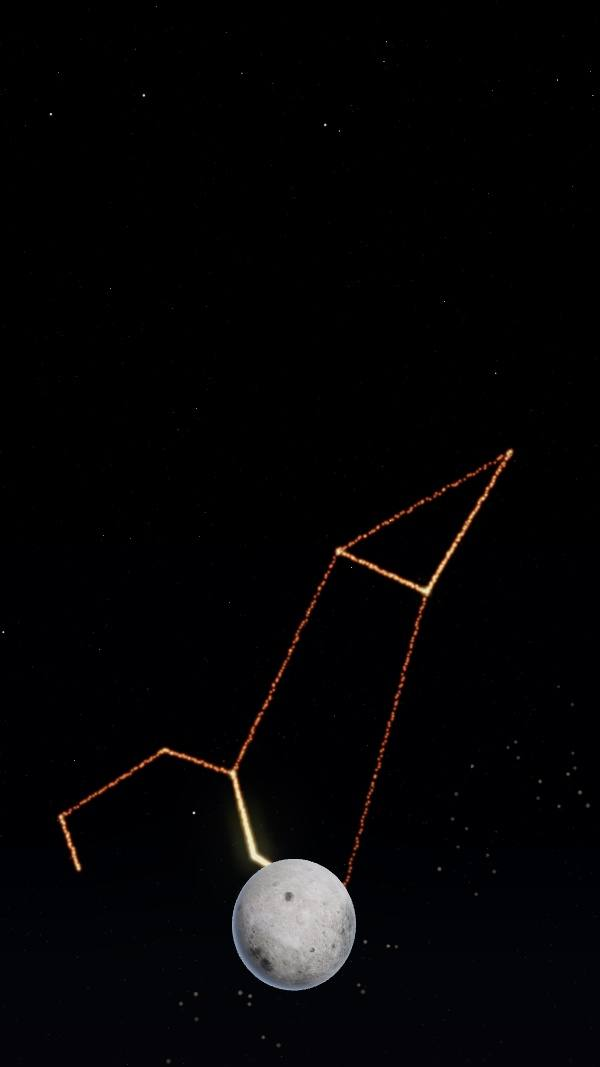
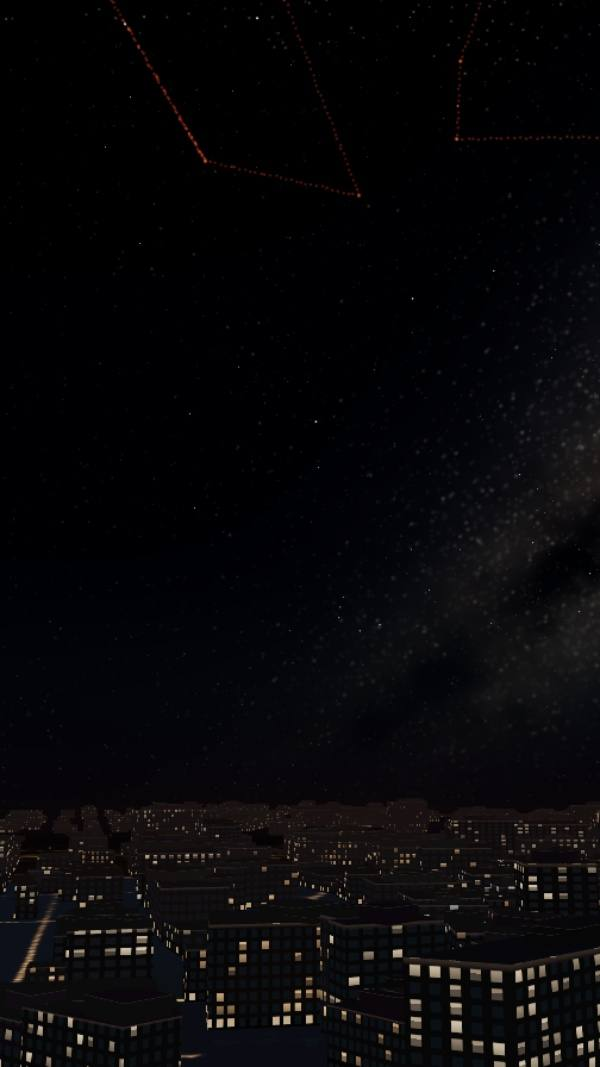
Build 228: the opening faces the real Milky Way; photographic band, night-city facades, a Sun that reads as a star
- opening gaze: the brightest stretch of the REAL galactic plane standing 15-35 deg over the skyline,
  framed like a night photograph (limb at ~82% of the frame, city along the bottom), turned away from
  the user-sized natal Sun (in Sagittarius, beside the galactic centre) until its disc leaves the frame
- Milky Way bake: resolved stars (one hash per texel, density following the band, power-law magnitudes,
  spectral tints) and the rich southern Carina-Crux-Centaurus clouds
- city: every building draws its own storey height, bay width, wakefulness and light temperature;
  rare whole office floors; dark glass holding a little sky; blinds and ceiling falloff in lit panes;
  shopfronts; street-level occlusion; a roofline edge catching the light dome; roof plant rooms and
  stair houses sized from the real OSM footprints break the clean-box skyline
- Sun: no in-shader ACES (the pipeline tone-maps once) — it was washed to a cream plate; photosphere
  colour from deep-orange limb to white-hot centre, fine granulation on the sphere, bright enough to
  bloom; corona shells and the rim now fade to zero AT their silhouettes (no more hard rings)
- posters re-captured from the new opening

diff --git a/space.js b/space.js
@@ -230,8 +230,9 @@
           "  float cyg = exp(-pow((l - 1.36) / 0.40, 2.0));",                                   // the Cygnus star cloud, l≈78°
           "  float sct = exp(-pow((l - 0.47) / 0.12, 2.0));",                                   // the Scutum star cloud, l≈27°
           "  float cas = exp(-pow((l - 2.10) / 0.45, 2.0));",                                   // Cassiopeia–Cepheus
-          "  float lon = 0.14 + 0.46 * exp(-pow(l / 1.45, 2.0)) + 0.32 * cyg + 0.30 * sct + 0.10 * cas;",
-          "  float wid = 0.060 + 0.028 * cyg + 0.022 * nearC;",
+          "  float car = exp(-pow((l + 1.15) / 0.40, 2.0));",                                   // Carina–Crux–Centaurus, l≈290–310°: the rich southern band
+          "  float lon = 0.14 + 0.46 * exp(-pow(l / 1.45, 2.0)) + 0.32 * cyg + 0.30 * sct + 0.10 * cas + 0.34 * car;",
+          "  float wid = 0.060 + 0.028 * cyg + 0.022 * nearC + 0.018 * car;",
           "  float warp = 0.012 * sin(l * 2.0) + 0.006 * sin(l * 5.0 + 1.3);",
           "  float n1 = fbm(gd * 3.4), n2 = fbm(gd * 9.0 + 5.2), n3 = fbm(gd * 30.0 + 1.7);",
           "  float core = exp(-pow((b - warp) / wid, 2.0));",
@@ -256,6 +257,16 @@
           "  col = mix(col, gold, clamp(bulge * 1.2 + 0.35 * nearC * core, 0.0, 1.0));",
           "  col *= I;",
           "  col += vec3(0.95, 0.28, 0.36) * pow(clamp(fbm(gd * 15.0 + 23.0), 0.0, 1.0), 8.0) * core * 3.0 * I;",
+          // build 228 — RESOLVED STARS: a long exposure shows the band as countless individual stars, not a smooth
+          // fog. One hash per texel; density follows the band's own brightness, magnitudes are power-law.
+          "  vec2 tx = floor(vUv * vec2(" + (MOBILE ? "2048.0, 512.0" : "4096.0, 1024.0") + "));",
+          "  float h1 = fract(sin(dot(tx, vec2(12.9898, 78.233))) * 43758.5453);",
+          "  float h2 = fract(sin(dot(tx, vec2(39.3468, 11.1350))) * 24634.6345);",
+          "  float h3s = fract(sin(dot(tx, vec2(73.1560, 52.2350))) * 15731.7431);",
+          "  float dens = clamp(0.012 + 0.30 * I, 0.0, 0.42) * (1.0 - smoothstep(" + (MILKY_B * 0.55).toFixed(3) + ", " + MILKY_B.toFixed(3) + ", abs(b)));",   // no seam where the map ends
+          "  float st = step(1.0 - dens, h1) * (0.35 + 2.2 * pow(h2, 7.0));",
+          "  vec3 sc = h3s < 0.18 ? vec3(0.78, 0.86, 1.0) : (h3s > 0.80 ? vec3(1.0, 0.82, 0.62) : vec3(1.0, 0.96, 0.90));",
+          "  col += sc * st * (0.55 + 0.45 * clamp(I, 0.0, 1.0));",
           "  gl_FragColor = vec4(sqrt(clamp(col / 2.2, 0.0, 1.0)), 1.0);",
           "}"
         ].join("\n")
@@ -1178,13 +1189,27 @@
       var quat = new THREE.Quaternion().setFromRotationMatrix(new THREE.Matrix4().makeBasis(east, north, up));
       loadCityData().then(function (j) {
         if (!j || !j.b || !controls.isGround()) return;
-        var S = CITY_SCALE, B = j.b, P = [], I = [];   // position (local), aInfo (topFrac, wallFlag, seed)
+        var S = CITY_SCALE, B = j.b, P = [], I = [];   // position (local), aInfo (topFrac, kind: 1 facade · 0.5 plant · 0 roof, seed)
+        // a box on the roof (stair/lift house, plant room): walls with no windows + a flat lid
+        function roofBox(cx0, cy0, hx, hy, z0, hh, seed0) {
+          var X = [cx0 - hx, cx0 + hx, cx0 + hx, cx0 - hx], Y = [cy0 - hy, cy0 - hy, cy0 + hy, cy0 + hy], z1 = z0 + hh;
+          for (var q = 0; q < 4; q++) {
+            var q1 = (q + 1) % 4;
+            P.push(X[q], Y[q], z0, X[q1], Y[q1], z0, X[q1], Y[q1], z1,  X[q], Y[q], z0, X[q1], Y[q1], z1, X[q], Y[q], z1);
+            I.push(0, 0.5, seed0, 0, 0.5, seed0, 1, 0.5, seed0,  0, 0.5, seed0, 1, 0.5, seed0, 1, 0.5, seed0);
+          }
+          P.push(X[0], Y[0], z1, X[1], Y[1], z1, X[2], Y[2], z1,  X[0], Y[0], z1, X[2], Y[2], z1, X[3], Y[3], z1);
+          I.push(1, 0, seed0, 1, 0, seed0, 1, 0, seed0,  1, 0, seed0, 1, 0, seed0, 1, 0, seed0);
+        }
         for (var bi = 0; bi < B.length; bi++) {
-          var r = B[bi].r, H = B[bi].h * S, m = r.length >> 1;
+          var r = B[bi].r, Hm = B[bi].h, H = Hm * S, m = r.length >> 1;
           if (m < 3) continue;
           var seed = (bi * 0.6180339887) % 1;
-          var cx = 0, cy = 0;
-          for (var k = 0; k < m; k++) { cx += r[k * 2]; cy += r[k * 2 + 1]; }
+          var cx = 0, cy = 0, x0 = 1e9, x1 = -1e9, y0 = 1e9, y1 = -1e9;
+          for (var k = 0; k < m; k++) {
+            var rx = r[k * 2], ry = r[k * 2 + 1]; cx += rx; cy += ry;
+            if (rx < x0) x0 = rx; if (rx > x1) x1 = rx; if (ry < y0) y0 = ry; if (ry > y1) y1 = ry;
+          }
           cx = cx / m * S; cy = cy / m * S;
           for (var e0 = 0; e0 < m; e0++) {
             var e1 = (e0 + 1) % m;
@@ -1196,6 +1221,15 @@
             P.push(cx, cy, H, ax, ay, H, bx, by, H);
             I.push(1, 0, seed, 1, 0, seed, 1, 0, seed);
           }
+          // build 228 — the skyline gets its roof clutter: mid-rises and towers carry a plant room / stair house
+          // (two on big floor plates), sized from the real footprint, so the silhouette stops reading as clean boxes
+          var bw = x1 - x0, bd = y1 - y0;
+          if (Hm > 13 && bw > 9 && bd > 9) {
+            var rs = (bi * 0.7548776662) % 1, rt = (bi * 0.5698402910) % 1;
+            var hx = Math.max(2.2, bw * (0.12 + 0.10 * rs)) * S, hy = Math.max(2.2, bd * (0.12 + 0.10 * rt)) * S;
+            roofBox(cx + (rs - 0.5) * bw * 0.25 * S, cy + (rt - 0.5) * bd * 0.25 * S, hx, hy, H, (2.6 + 2.8 * rs) * S, seed);
+            if (bw * bd > 900) roofBox(cx - (rs - 0.5) * bw * 0.32 * S, cy + (0.5 - rt) * bd * 0.30 * S, hx * 0.6, hy * 0.7, H, (1.6 + 1.4 * rt) * S, seed);
+          }
         }
         if (!P.length) return;
         var g = new THREE.BufferGeometry();
@@ -1204,30 +1238,55 @@
         _cityMat = new THREE.ShaderMaterial({
           uniforms: { uFade: { value: 0 }, uScale: { value: S }, uHorizon: { value: new THREE.Color(0.030, 0.021, 0.019) } },   // build 227: the real night limb (was bright amber)
           side: THREE.DoubleSide, depthWrite: true, depthTest: true, fog: false,
+          extensions: { derivatives: true },
           vertexShader:
             "attribute vec3 aInfo; varying vec3 vLocal; varying vec3 vInfo; varying float vDist;\n" +
             "void main(){ vLocal=position; vInfo=aInfo; vec4 wp=modelMatrix*vec4(position,1.0);\n" +
             "  vDist=distance(wp.xyz, cameraPosition);\n" +
             "  gl_Position=projectionMatrix*modelViewMatrix*vec4(position,1.0); }",
+          /* build 228 — a night facade with the grain of a photograph, not a grid of identical lit squares:
+             every building draws its own storey height, bay width, how awake it is and its light temperature
+             (2700 K homes, 3500 K, 5000 K offices); whole office floors left on; unlit panes are dark glass
+             holding a little sky; shopfronts at street level; the street-level dark where walls meet the ground;
+             a thin roofline edge catching the city's light dome. */
           fragmentShader:
             "precision highp float; varying vec3 vLocal; varying vec3 vInfo; varying float vDist;\n" +
             "uniform float uFade; uniform float uScale; uniform vec3 uHorizon;\n" +
             "float h3(vec3 p){ return fract(sin(dot(p,vec3(12.9898,78.233,37.719)))*43758.5453); }\n" +
             "void main(){\n" +
-            "  float top=vInfo.x, wall=vInfo.y, seed=vInfo.z;\n" +
-            "  vec3 m=vLocal/uScale;\n" +                                   // local metres (e, n, heightM)
-            "  vec3 col=mix(vec3(0.0055,0.005,0.0055), vec3(0.022,0.020,0.024), top);\n" +   // build 227: true night silhouettes — the windows carry the light (was mid-grey up to 0.11)
-            "  if(wall>0.5){\n" +
-            "    float u=(m.x*0.9+m.y*1.1);\n" +
-            "    float ci=floor(u/3.4), ri=floor(m.z/3.6);\n" +
-            "    float hh=h3(vec3(ci, ri, seed*97.0)); float lit=step(0.80, hh);\n" +   // ~20% of rooms lit at night
-            "    float px=abs(fract(u/3.4)-0.5), py=abs(fract(m.z/3.6)-0.42);\n" +
-            "    float pane=smoothstep(0.36,0.18,px)*smoothstep(0.36,0.14,py);\n" +
-            "    vec3 wc=mix(vec3(1.0,0.62,0.30), vec3(0.78,0.84,1.0), step(0.965, hh));\n" +   // a few cool LED rooms among the warm
-            "    col+=lit*pane*wc*(0.55+0.35*fract(hh*13.7));\n" +
+            "  float top=vInfo.x, kind=vInfo.y, seed=vInfo.z;\n" +
+            "  vec3 m=vLocal/uScale;\n" +                                   // local metres (east, north, height)
+            "  vec3 N=normalize(cross(dFdx(vLocal), dFdy(vLocal)));\n" +
+            "  float s1=h3(vec3(seed,1.7,3.1)), s2=h3(vec3(seed,8.3,0.7)), s3=h3(vec3(seed,4.4,9.2));\n" +
+            "  vec3 base=mix(vec3(0.0060,0.0058,0.0062), vec3(0.0150,0.0142,0.0150), s1);\n" +
+            "  float ao=0.42+0.58*smoothstep(0.0,7.0,m.z);\n" +
+            "  vec3 col=base;\n" +
+            "  if(kind>0.75){\n" +
+            "    float floorH=3.0+1.3*s1, bayW=2.3+2.4*s2;\n" +
+            "    float u=abs(N.x)>abs(N.y) ? m.y : m.x;\n" +
+            "    float fi=floor(m.z/floorH), fy=fract(m.z/floorH), bi=floor(u/bayW), bx=fract(u/bayW);\n" +
+            "    float wr=0.16+0.12*s3;\n" +
+            "    float pane=smoothstep(wr-0.05,wr,bx)*smoothstep(1.0-wr+0.05,1.0-wr,bx)*smoothstep(0.18,0.26,fy)*smoothstep(0.90,0.80,fy);\n" +
+            "    float room=h3(vec3(bi,fi,seed*97.0));\n" +
+            "    float awake=mix(0.05,0.40,pow(s3,1.3));\n" +
+            "    float office=step(0.93,h3(vec3(fi,seed*31.0,2.0)))*step(0.62,s2);\n" +
+            "    float lit=max(step(1.0-awake,room), office*step(0.2,room))*step(0.5,fi);\n" +
+            "    vec3 tint=s2<0.60 ? vec3(1.0,0.62,0.30) : (s2<0.90 ? vec3(1.0,0.78,0.52) : vec3(0.84,0.89,1.0));\n" +
+            "    float hv=h3(vec3(bi,fi,seed*7.0)); float var=0.32+0.68*hv*hv;\n" +   // most rooms dim-lit, a few bright
+            "    float blind=step(0.55,h3(vec3(bi,fi,seed*3.0)));\n" +
+            "    float inner=mix(0.55+0.45*smoothstep(0.22,0.86,fy), 0.30+0.70*step(0.62,fy), blind);\n" +   // ceiling light falls down the pane; some rooms behind half-drawn blinds
+            "    col=mix(col*ao, vec3(0.016,0.019,0.027), pane*0.85);\n" +
+            "    col+=pane*lit*tint*var*inner*0.72;\n" +
+            "    float shop=(1.0-step(0.5,fi))*step(0.55,h3(vec3(bi,seed,5.0)));\n" +
+            "    col+=shop*pane*vec3(1.0,0.70,0.40)*0.50;\n" +
+            "  } else if(kind>0.25){\n" +
+            "    col=base*1.35*ao;\n" +
+            "  } else {\n" +
+            "    col=vec3(0.0095,0.0100,0.0125)+vec3(0.005,0.0035,0.0025)*s1;\n" +
             "  }\n" +
+            "  col+=smoothstep(0.955,1.0,top)*step(0.25,kind)*vec3(0.048,0.034,0.026);\n" +   // the roofline edge
             "  float haze=smoothstep(0.02,0.15,vDist);\n" +
-            "  col=mix(col, uHorizon, haze*0.80);\n" +                     // distant blocks dissolve into the night limb
+            "  col=mix(col, uHorizon, haze*0.80);\n" +
             "  gl_FragColor=vec4(col*uFade, 1.0); }"
         });
         if ("toneMapped" in _cityMat) _cityMat.toneMapped = false;
@@ -1740,7 +1799,7 @@
       setTimeout(once, 4500);
     }
 
-    import("./nye-armature.js?v=45").then(function (mod) {
+    import("./nye-armature.js?v=46").then(function (mod) {
       try {
         nyeArmature = mod.mountNyeArmature(THREE, scene, {
           instant: new Date(2002, 0, 2, 15, 45, 0, 0),
@@ -2114,6 +2173,51 @@
             pitch: Math.max(0.46, Math.min(1.28, Math.asin(Math.max(-1, Math.min(1, best.dot(nrm)))) + 0.10))  // aim at the visible Moon/constellation itself, not past it into an empty zenith
           };
         }
+        /* build 228 — the waking gaze faces the MILKY WAY at its true place (owner: "初始视角对着银河，保持真实位置").
+           Scan the real galactic plane for the brightest stretch standing 15–35° over the skyline (the bulge, the
+           Scutum and Cygnus clouds weigh most) and frame it like a night photograph: the city along the bottom
+           ~18% of the frame, the band rising out of it. Falls back to the Moon/constellation aim above. */
+        try {
+          if (natalSky && natalSky.skyDir) {
+            var gX2 = natalSky.skyDir(17.7611, -29.0078), gZ2 = natalSky.skyDir(12.8573, 27.1283);
+            gZ2.addScaledVector(gX2, -gZ2.dot(gX2)).normalize();
+            var gY2 = new THREE.Vector3().crossVectors(gZ2, gX2).normalize();
+            var mwAim = null, mwS = -9, md = new THREE.Vector3(), sunDirB = null;
+            try { var sunO = nyeArmature.group.getObjectByName("NyeSun"); if (sunO) sunDirB = sunO.getWorldPosition(new THREE.Vector3()).sub(sp.position).normalize(); } catch (eS) {}
+            for (var li = -72; li < 72; li++) {
+              var Lg = li * Math.PI / 72;
+              md.copy(gX2).multiplyScalar(Math.cos(Lg)).addScaledVector(gY2, Math.sin(Lg));
+              var altM = Math.asin(Math.max(-1, Math.min(1, md.dot(nrm))));
+              if (altM < 0.17) continue;                 // lower than that the city's light dome swallows it
+              var brM = 0.2 + Math.exp(-Math.pow(Lg / 0.6, 2)) + 0.45 * Math.exp(-Math.pow((Lg - 1.36) / 0.4, 2)) + 0.35 * Math.exp(-Math.pow((Lg - 0.47) / 0.15, 2)) + 0.45 * Math.exp(-Math.pow((Lg + 1.15) / 0.4, 2));
+              var scM = brM * (0.35 + 0.65 * Math.exp(-Math.pow((altM - 0.42) / 0.3, 2)));
+              if (scM > mwS) { mwS = scM; mwAim = md.clone(); }
+            }
+            if (mwAim) {
+              // the band's brightest stretch sits beside the (symbolic, user-sized ~15°) natal Sun in Sagittarius:
+              // keep the core in frame but turn the gaze AWAY from the Sun until its disc leaves the frame
+              var focusM = mwAim.clone();
+              if (sunDirB) {
+                var aS = Math.acos(Math.max(-1, Math.min(1, mwAim.dot(sunDirB))));
+                if (aS < 1.06) {
+                  var away = mwAim.clone().multiplyScalar(mwAim.dot(sunDirB)).sub(sunDirB);
+                  if (away.lengthSq() > 1e-8) {
+                    away.normalize();
+                    var dl = Math.min(0.55, 1.06 - aS);
+                    mwAim = mwAim.clone().multiplyScalar(Math.cos(dl)).addScaledVector(away, Math.sin(dl)).normalize();
+                  }
+                }
+              }
+              var vfov = camera.fov * Math.PI / 180;
+              var horizonDip = -0.0925;                   // the visible limb at the low eye (see the composite's uHorizon)
+              var below = Math.atan(0.64 * Math.tan(vfov / 2));   // put the limb ~82% of the way down the frame
+              var altT = Math.asin(Math.max(-1, Math.min(1, focusM.dot(nrm))));   // the frame must still hold the bright core
+              var pitchC = horizonDip + below;            // the limb at ~82% of the frame height: the city along the bottom
+              if (altT - pitchC > 0.78 * vfov / 2) pitchC = altT - 0.78 * vfov / 2;   // …unless the band would leave the top
+              aim = { yaw: Math.atan2(mwAim.dot(east), mwAim.dot(north)), pitch: pitchC };
+            }
+          }
+        } catch (eM) { window.__aimErr = String(eM); }
         controls.setGroundMode({
           position: sp.position, normal: sp.normal,
           yaw: (opts && opts.yaw != null) ? opts.yaw : (aim ? aim.yaw : 0.35),

diff --git a/nye-armature.js b/nye-armature.js
@@ -508,8 +508,10 @@ export function mountNyeArmature(THREE, scene, opts) {
       "varying vec2 vUv;",
       "varying vec3 vWn;",
       "varying vec3 vWp;",
+      "varying vec3 vObjN;",
       "void main(){",
       "  vUv=uv;",
+      "  vObjN=normalize(position);",
       "  vec4 wp=modelMatrix*vec4(position,1.0);",
       "  vWp=wp.xyz;",
       "  vWn=normalize(mat3(modelMatrix)*normal);",
@@ -519,7 +521,7 @@ export function mountNyeArmature(THREE, scene, opts) {
 
 
     const sunCoreFrag = [
-      "varying vec2 vUv; varying vec3 vWn; varying vec3 vWp;",
+      "varying vec2 vUv; varying vec3 vWn; varying vec3 vWp; varying vec3 vObjN;",
       "uniform sampler2D uMap;",
       "uniform float uExposure;",
       "uniform vec3 uWarmTint;",
@@ -528,13 +530,23 @@ export function mountNyeArmature(THREE, scene, opts) {
       "  vec3 N=normalize(vWn);",
       "  vec3 V=normalize(cameraPosition-vWp);",
       "  float mu=max(dot(N,V),0.0);",
-      "  vec3 col=texture2D(uMap,vUv).rgb*1.18;",
-      "  float ld=0.34+0.66*pow(mu,0.62);",                   // photospheric limb darkening
-      "  col*=ld;",
-      "  col=mix(col,vec3(0.98,0.34,0.08),pow(1.0-mu,2.9)*0.55);",  // limb reddening
-      "  col+=vec3(0.30,0.26,0.22)*pow(mu,2.6);",             // hot core lift
+      "  vec3 tex=texture2D(uMap,vUv).rgb; float hp=dot(tex,vec3(0.333));",   // the baked heat pattern: lanes and faculae
+      // build 228: fine granulation cells on the sphere itself (the 1024px bake is soft up close)
+      "  vec3 q=normalize(vObjN)*64.0;",
+      "  vec3 qi=floor(q), qf=fract(q); qf=qf*qf*(3.0-2.0*qf);",
+      "  float n000=fract(sin(dot(qi,vec3(127.1,311.7,74.7)))*43758.5453), n100=fract(sin(dot(qi+vec3(1,0,0),vec3(127.1,311.7,74.7)))*43758.5453);",
+      "  float n010=fract(sin(dot(qi+vec3(0,1,0),vec3(127.1,311.7,74.7)))*43758.5453), n110=fract(sin(dot(qi+vec3(1,1,0),vec3(127.1,311.7,74.7)))*43758.5453);",
+      "  float n001=fract(sin(dot(qi+vec3(0,0,1),vec3(127.1,311.7,74.7)))*43758.5453), n101=fract(sin(dot(qi+vec3(1,0,1),vec3(127.1,311.7,74.7)))*43758.5453);",
+      "  float n011=fract(sin(dot(qi+vec3(0,1,1),vec3(127.1,311.7,74.7)))*43758.5453), n111=fract(sin(dot(qi+vec3(1,1,1),vec3(127.1,311.7,74.7)))*43758.5453);",
+      "  float gn=mix(mix(mix(n000,n100,qf.x),mix(n010,n110,qf.x),qf.y),mix(mix(n001,n101,qf.x),mix(n011,n111,qf.x),qf.y),qf.z);",
+      // a photosphere's colour runs deep orange at the limb → gold → near-white at the centre; bright enough
+      // that the bloom pass gives it its glow (it used to sit below the threshold and read as a matte plate)
+      "  vec3 col=mix(vec3(1.0,0.40,0.09), vec3(1.0,0.70,0.30), smoothstep(0.0,0.45,mu));",
+      "  col=mix(col, vec3(1.0,0.93,0.80), smoothstep(0.70,1.0,mu));",
+      "  float ld=0.34+0.66*pow(mu,0.55);",                   // photospheric limb darkening
+      "  col*=ld*(0.80+0.36*gn)*(0.82+0.34*hp);",
       "  col=mix(col,col*uWarmTint,0.18);",
-      "  col=acesApprox(col*uExposure);",
+      "  col*=uExposure*0.98;",                                 // tone-mapped ONCE by the pipeline
       "  gl_FragColor=vec4(col,1.0);",
       "}"
     ].join("\n");
@@ -562,7 +574,7 @@ export function mountNyeArmature(THREE, scene, opts) {
       "  vec3 N=normalize(vWn);",
       "  vec3 V=normalize(cameraPosition-vWp);",
       "  float mu=max(dot(N,V),0.0);",
-      "  float f=pow(1.0-mu,3.4);",
+      "  float f=pow(1.0-mu,3.4)*smoothstep(0.0,0.16,mu);",   // build 228: fades out AT the limb (was a crisp bright ring)
       "  float g=texture2D(uWisp,vUv*vec2(3.0,2.0)).r;",
       "  vec3 c=vec3(2.05,0.70,0.30)*f*(0.80+0.20*g);",
       "  c=acesApprox(c*0.86);",
@@ -601,7 +613,7 @@ export function mountNyeArmature(THREE, scene, opts) {
       "  float phi=atan(vWn.y,vWn.x);",
       "  float stream=0.80+0.20*sin(phi*14.0)*sin(phi*8.0+vWn.z*5.5);",
       "  stream=mix(1.0,stream,uStreamAmt);",
-      "  float alpha=limbW*wisps*uOpacity*stream;",
+      "  float alpha=limbW*wisps*uOpacity*stream*smoothstep(0.0,0.32,mu);",   // build 228: zero at the silhouette — no hard ring where the shell ends
       "  gl_FragColor=vec4(uColor,clamp(alpha,0.0,1.0));",
       "}"
     ].join("\n");

diff --git a/index.html b/index.html
@@ -51,7 +51,7 @@
     <link rel="modulepreload" href="/vendor/three/addons/shaders/CopyShader.js" />
     <link rel="modulepreload" href="/vendor/three/addons/shaders/LuminosityHighPassShader.js" />
     <link rel="modulepreload" href="/vendor/three/addons/shaders/OutputShader.js" />
-    <link rel="modulepreload" href="/nye-armature.js?v=45" />
+    <link rel="modulepreload" href="/nye-armature.js?v=46" />
     <link rel="modulepreload" href="/natal-sky.js?v=149" />
     <link rel="preload" as="fetch" href="/data/natal-sky.json?v=17" crossorigin />
     <link rel="stylesheet" href="styles.css?v=61" />
@@ -338,7 +338,7 @@
     <script src="search.js?v=5" defer></script>
     <script src="craft.js?v=1" defer></script>
     <script src="cosmic-layers.js?v=7"></script>
-    <script type="module" src="space.js?v=226"></script>
+    <script type="module" src="space.js?v=227"></script>
     <script src="galaxy-atlas.js?v=4" defer></script>
   </body>
 </html>
